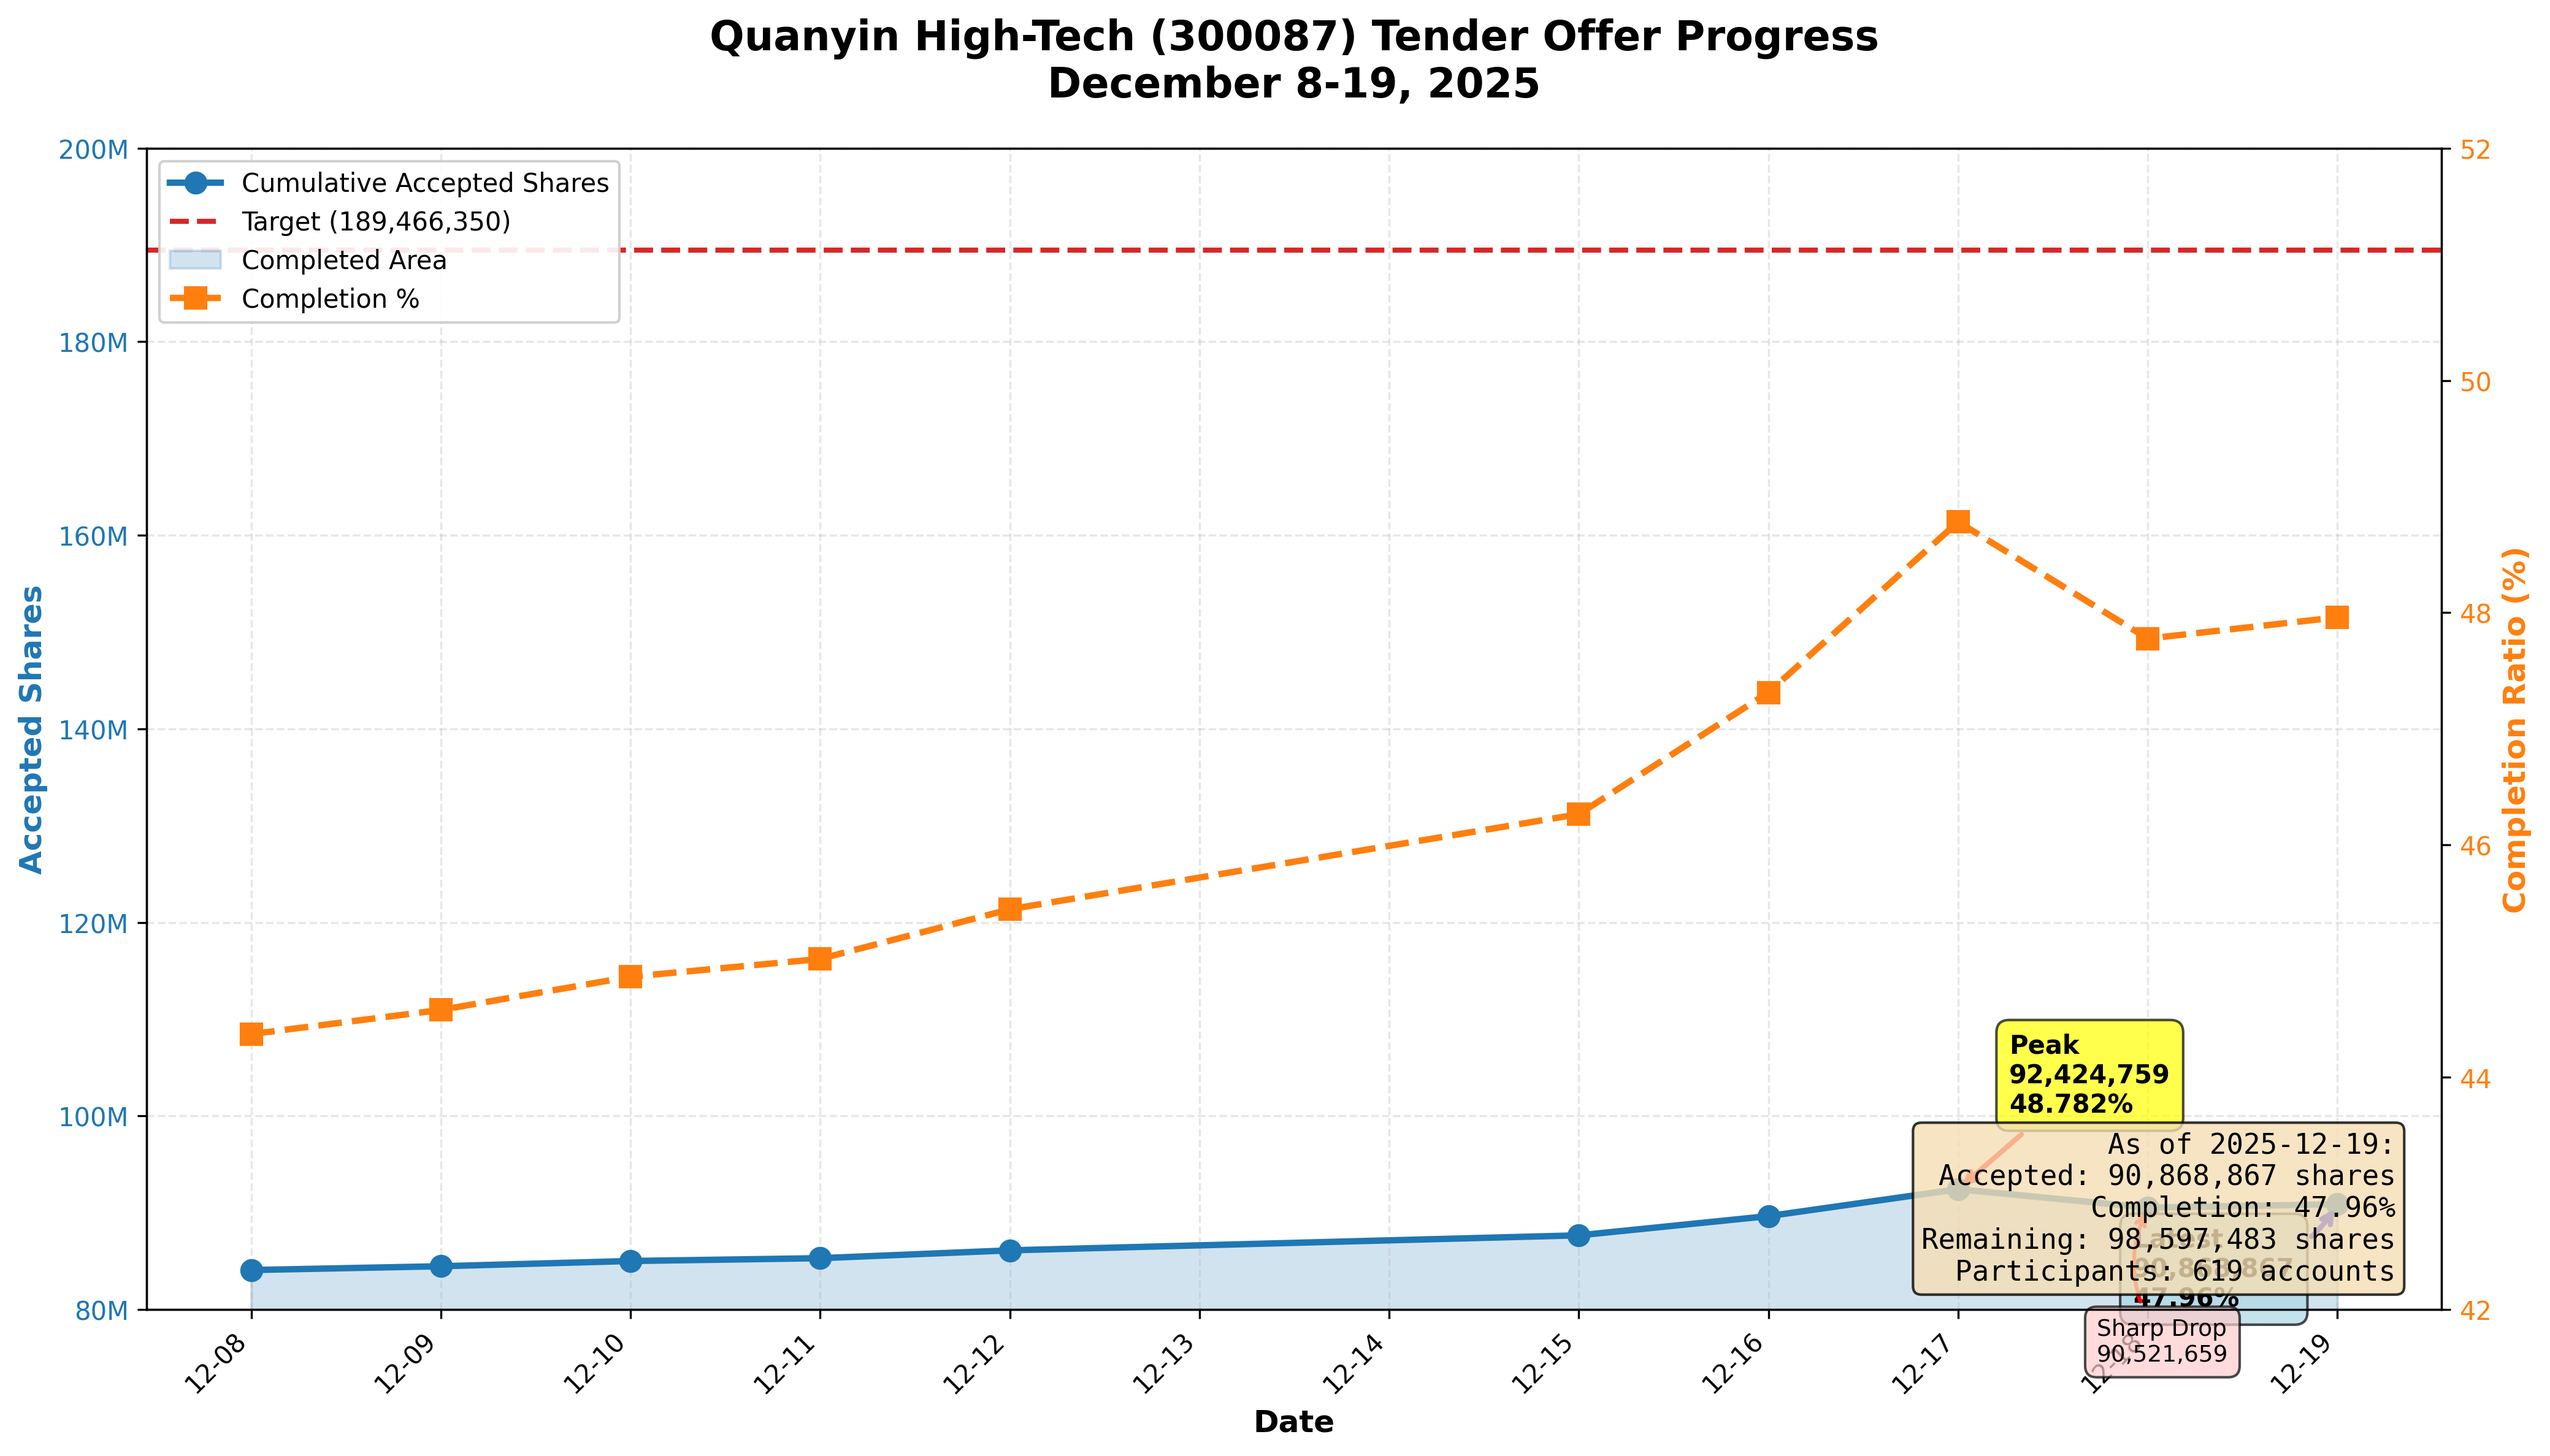
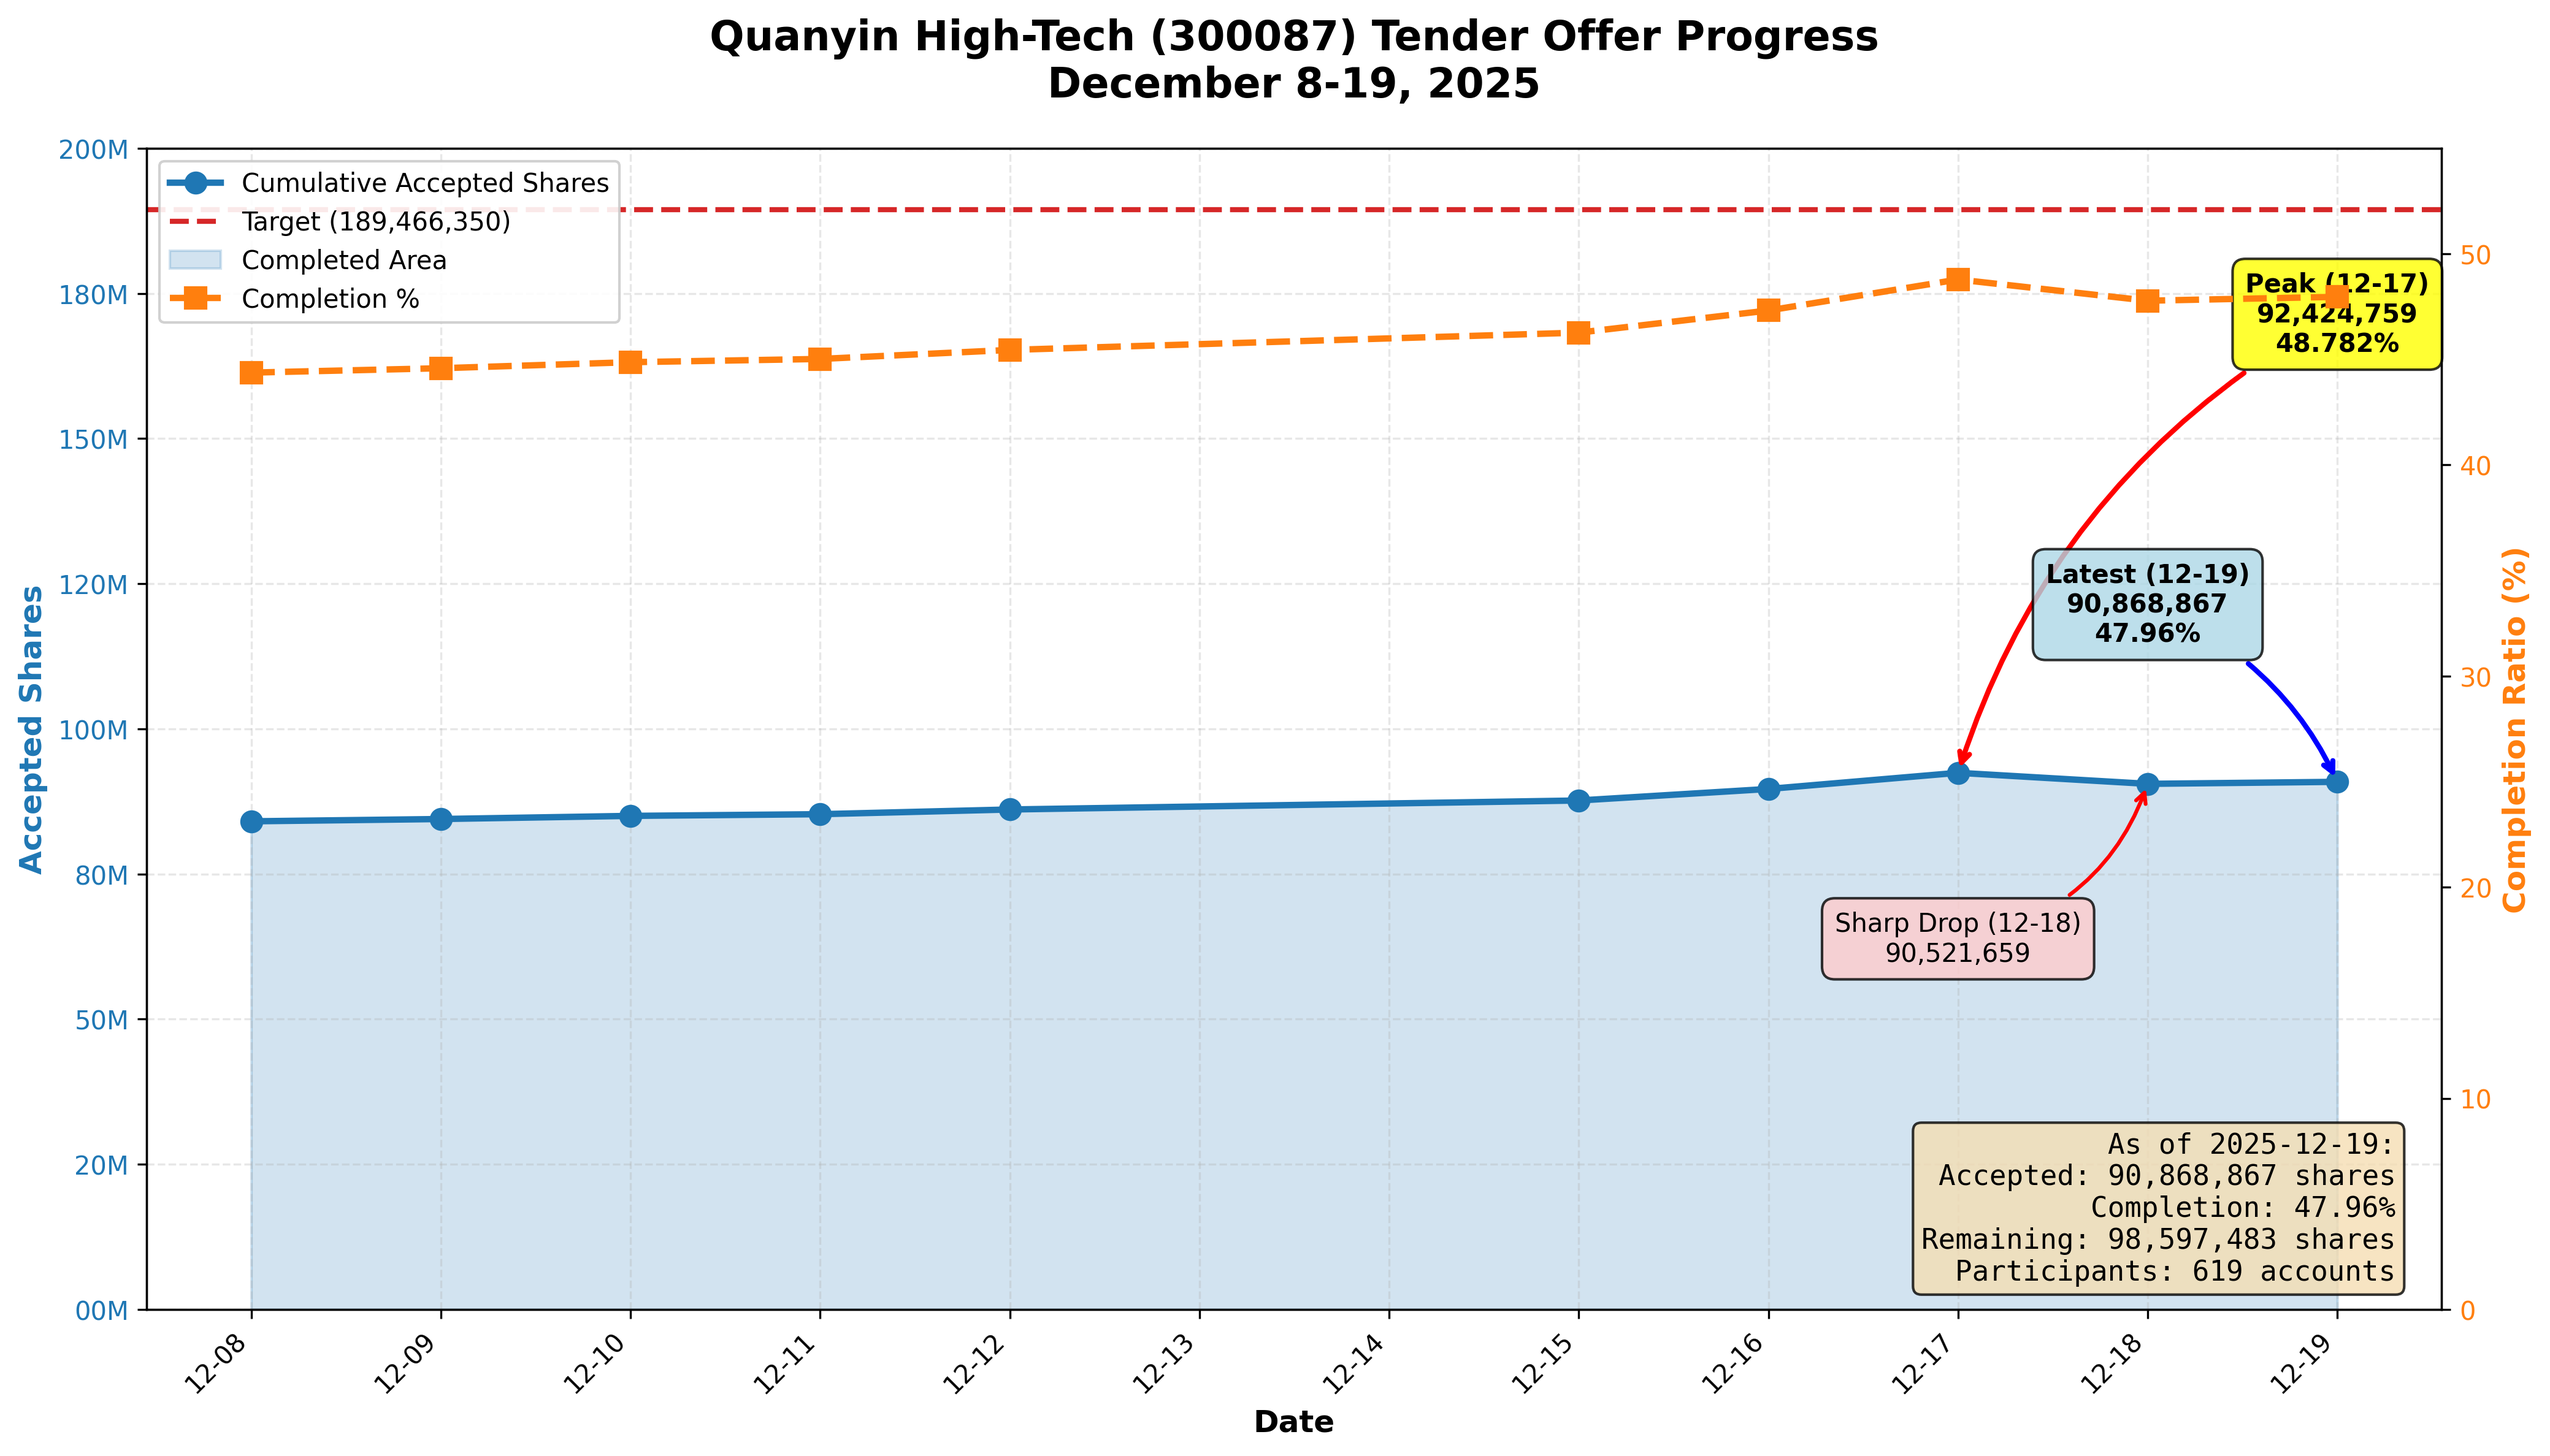
优化图表布局：Y轴从0开始，标注移至空白区域
改进内容：
- 左Y轴范围改为0-200M（之前80M-200M），更符合常规
- 右Y轴范围改为0-55%（之前42-52%）
- 将三个关键标注移至图表空白区域，避免遮挡数据线
- 标注添加日期信息（12-17, 12-18, 12-19）更清晰
- 箭头指向更精确，图表可读性大幅提升

diff --git a/05_quanyin_tender_offer/generate_chart.py b/05_quanyin_tender_offer/generate_chart.py
@@ -94,8 +94,8 @@ line2 = ax2.plot(date_objects, completion_ratio, color=color_ratio,
 ax2.tick_params(axis='y', labelcolor=color_ratio)
 
 # Set y-axis range
-ax1.set_ylim([80000000, 200000000])
-ax2.set_ylim([42, 52])
+ax1.set_ylim([0, 200000000])
+ax2.set_ylim([0, 55])
 
 # Format left axis tick labels (display in 10 millions)
 def millions_formatter(x, pos):
@@ -107,36 +107,36 @@ ax1.xaxis.set_major_formatter(mdates.DateFormatter('%m-%d'))
 ax1.xaxis.set_major_locator(mdates.DayLocator(interval=1))
 plt.setp(ax1.xaxis.get_majorticklabels(), rotation=45, ha='right')
 
-# Annotate key points
-# Peak point
+# Annotate key points - positioned in blank areas to avoid covering data
+# Peak point - positioned in upper right area
 peak_idx = completion_ratio.index(max(completion_ratio))
-ax1.annotate(f'Peak\n{cumulative_shares[peak_idx]:,}\n{completion_ratio[peak_idx]}%',
+ax1.annotate(f'Peak (12-17)\n{cumulative_shares[peak_idx]:,}\n{completion_ratio[peak_idx]}%',
              xy=(date_objects[peak_idx], cumulative_shares[peak_idx]),
-             xytext=(20, 30), textcoords='offset points',
-             bbox=dict(boxstyle='round,pad=0.5', facecolor='yellow', alpha=0.7),
-             arrowprops=dict(arrowstyle='->', connectionstyle='arc3,rad=0',
+             xytext=(date_objects[-1], 165000000),
+             bbox=dict(boxstyle='round,pad=0.5', facecolor='yellow', alpha=0.8),
+             arrowprops=dict(arrowstyle='->', connectionstyle='arc3,rad=0.2',
                            color='red', lw=2),
-             fontsize=10, fontweight='bold')
+             fontsize=10, fontweight='bold', ha='center')
 
-# Latest data point
+# Latest data point - positioned in middle right area
 latest_idx = -1
-ax1.annotate(f'Latest\n{cumulative_shares[latest_idx]:,}\n{completion_ratio[latest_idx]}%',
+ax1.annotate(f'Latest (12-19)\n{cumulative_shares[latest_idx]:,}\n{completion_ratio[latest_idx]}%',
              xy=(date_objects[latest_idx], cumulative_shares[latest_idx]),
-             xytext=(-80, -40), textcoords='offset points',
-             bbox=dict(boxstyle='round,pad=0.5', facecolor='lightblue', alpha=0.7),
-             arrowprops=dict(arrowstyle='->', connectionstyle='arc3,rad=0.3',
+             xytext=(date_objects[-2], 115000000),
+             bbox=dict(boxstyle='round,pad=0.5', facecolor='lightblue', alpha=0.8),
+             arrowprops=dict(arrowstyle='->', connectionstyle='arc3,rad=-0.2',
                            color='blue', lw=2),
-             fontsize=10, fontweight='bold')
+             fontsize=10, fontweight='bold', ha='center')
 
-# Drop point
+# Drop point - positioned in lower right area
 drop_idx = -2
-ax1.annotate(f'Sharp Drop\n{cumulative_shares[drop_idx]:,}',
+ax1.annotate(f'Sharp Drop (12-18)\n{cumulative_shares[drop_idx]:,}',
              xy=(date_objects[drop_idx], cumulative_shares[drop_idx]),
-             xytext=(-20, -60), textcoords='offset points',
-             bbox=dict(boxstyle='round,pad=0.5', facecolor='#ffcccc', alpha=0.7),
-             arrowprops=dict(arrowstyle='->', connectionstyle='arc3,rad=-0.3',
+             xytext=(date_objects[-3], 60000000),
+             bbox=dict(boxstyle='round,pad=0.5', facecolor='#ffcccc', alpha=0.8),
+             arrowprops=dict(arrowstyle='->', connectionstyle='arc3,rad=0.3',
                            color='red', lw=1.5),
-             fontsize=9)
+             fontsize=10, ha='center')
 
 # Title
 plt.title('Quanyin High-Tech (300087) Tender Offer Progress\nDecember 8-19, 2025',
